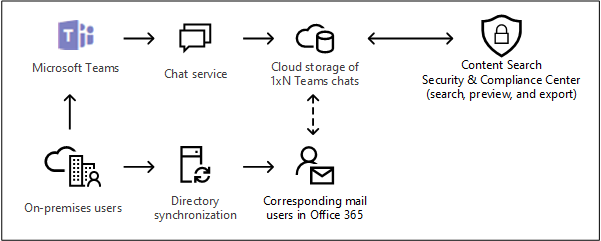
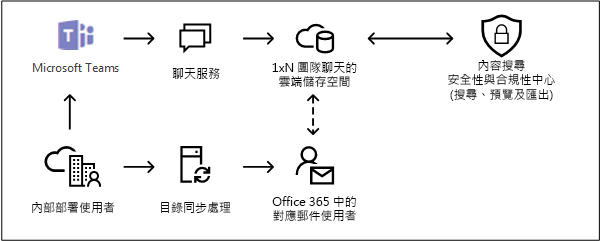
commit translated contents

diff --git a/microsoft-365/solutions/energy-secure-collaboration.md b/microsoft-365/solutions/energy-secure-collaboration.md
@@ -1,0 +1,222 @@
+---
+title: 能源產業的重要合規性與安全性考量
+ms.author: bcarter
+author: brendacarter
+manager: laurawi
+audience: ITPro
+ms.topic: article
+ms.collection:
+- Ent_O365
+- Strat_O365_Enterprise
+- M365-security-compliance
+ms.service: O365-seccomp
+localization_priority: Priority
+description: 了解 Microsoft 365 如何協助將能源組織移轉至現代共同作業平台，同時協助確保資料和系統安全性及遵循各種法規
+ms.openlocfilehash: d1585fdb69736a82699cdff8ef7a641ccff45194
+ms.sourcegitcommit: c876d58b34454f211b50ae5d06f193c1a1e5c4ff
+ms.translationtype: HT
+ms.contentlocale: zh-TW
+ms.lasthandoff: 04/11/2020
+ms.locfileid: "43231032"
+---
+# <a name="key-compliance-and-security-considerations-for-the-energy-industry"></a>能源產業的重要合規性與安全性考量
+:::image type="content" source="../media/solution-arch-center/MSC17_global_016.png" alt-text="使用雲端的各種產業全球檢視圖例比喻":::
+## <a name="introduction"></a>簡介
+能源產業提供社會大眾每天依賴的燃料和關鍵基礎結構。 為了確保與大量能源系統相關基礎結構的可靠性，監管機關施加了嚴格的能源產業組織標準。 這些法規標準不僅與能源產生和傳輸相關，也與對能源公司日常工作至關重要的資料和通訊相關。 
+
+能源產業中的組織可以在其一般營運中使用及交換許多類型的資訊，包括客戶資料、資本工程設計文件、資源位置地圖、專案管理成品、效能計量、現場服務報告、環境資料和效能計量。 當這些組織尋求將其營運和共同作業系統轉換成新式數位平台時，他們會將 Microsoft 視為信任的雲端服務提供者 (CSP)，將 Microsoft 365 視為其最佳共同作業平台。 由於 Microsoft 365 本質上是建置在 Microsoft Azure 平台上，因此組織應該在移動到雲端而考量其合規性與安全性控制時，同時檢查兩個平台。
+
+在北美洲，北美洲電氣可靠性公司 (North America Electric Reliability Corporation (NERC)) 會強制執行 NERC [重要基礎結構保護 (CIP) 標準](https://www.nerc.com/pa/Stand/Pages/CIPStandards.aspx) (英文) 中所述的可靠性標準。 NERC 受美國聯邦能源管理委員會 (FERC) 和加拿大政府機構的監督。 所有大量電力系統擁有者、操作員和使用者必須向 NERC 註冊，並且遵守 NERC CIP 標準。 雲端服務提供者和第三方廠商 (例如 Microsoft) 不受 NERC CIP 標準約束；不過 CIP 標準包含註冊實體在大量電力系統 (BES) 運行中使用廠商時應考慮的目標。 運行大量電力系統的 Microsoft 客戶對確保自己遵守 NERC CIP 標準負有全部責任。 
+
+如需 Microsoft 雲端服務與 NERC 的相關資訊，請參閱下列資源：
+- [NERC CIP 標準和雲端運算](https://aka.ms/AzureNERC)
+- [NERC 稽核的雲端實作指南](https://aka.ms/AzureNERCGuide)
+
+針對能源組織考量所建議的法規標準包括 FedRAMP (美國聯邦風險與授權管理計劃)，這個計劃是以 NIST SP 800-53 修訂版 4 標準 (國家標準暨技術研究院) 為基礎並擴充。 
+- Microsoft Office 365 和 Office 365 美國政府都在「中度影響層級」獲得授與 FedRAMP ATO (授權可執行)。 
+- Azure 和 Azure Government 都獲得授與 FedRAMP High P-ATO (佈建授權可執行)，這是最高的 FedRAMP 授權層級。 
+
+如需 Microsoft 雲端服務與 FedRAMP 的相關資訊，請參閱下列資源：
+- [Microsoft FedRAMP 概觀](https://docs.microsoft.com/microsoft-365/compliance/offering-fedramp?view=o365-worldwide) (部分機器翻譯)
+- [Office 365 FedRAMP 報告](https://servicetrust.microsoft.com/ViewPage/MSComplianceGuideV3?docTab=7027ead0-3d6b-11e9-b9e1-290b1eb4cdeb_FedRAMP_Reports) (部分機器翻譯)
+
+
+這些成就對能源產業來說非常重要，因為 FedRAMP 中等控制集與 NERC CIP 需求之間的比較顯示，FedRAMP 中等控制涵蓋所有 NERC CIP 需求。 如需詳細資訊，Microsoft 已開發 [NERC 稽核的雲端實作指南](https://servicetrust.microsoft.com/ViewPage/TrustDocuments?command=Download&downloadType=Document&downloadId=68df41b2-873d-4e4b-a7c8-8a0d4fdefb88&docTab=6d000410-c9e9-11e7-9a91-892aae8839ad_Compliance_Guides)，其中包括目前 NERC CIP 標準集合和 FedRAMP 中等控制集之間的控制對應，如 NIST 800-53 修訂版 4 所述。
+
+隨著能源產業尋求將其共同作業平台現代化，需針對設定及部署共同作業工具和安全性控制而謹慎考慮，包括：
+- 常用共同作業案例的評估
+- 存取員工若要有生產力必要的資料
+- 法規遵循需求
+- 讓風險與資料、客戶和組織產生關聯
+
+Microsoft 365 是一種新式工作場所雲端環境，可以在整個企業之間提供安全且靈活的共同作業，結合控制和原則強制執行，以因應嚴格的法規遵循架構。 本文件透過下列主題，探討 Microsoft 365 平台如何協助能源產業移至新式共同作業平台，同時協助保持資料和系統安全且遵循法規要求：
+- 透過 Microsoft Teams 提供全面的共同作業平台
+- 在能源產業中提供安全且合規的共同作業
+- 識別敏感性資料並防止資料外洩
+- 藉由有效管理記錄來管理資料
+- 符合 FERC 和 FTC 對於能源市場的法規要求
+- 防範資料外流和測試人員風險
+
+Microsoft 的合作夥伴 Protiviti 參與撰寫本文，並協助提供實質意見反應。
+
+## <a name="provide-a-comprehensive-collaboration-platform-with-microsoft-teams"></a>透過 Microsoft Teams 提供全面的共同作業平台
+共同作業通常需要多種形式的溝通、儲存及存取文件的功能，以及整合其他應用程式的能力。 無論是全球企業或本地公司，能源部門中的員工通常都需要與其他部門或跨小組的成員共同作業及溝通。 通常也需要與外部合作夥伴、廠商或客戶進行通訊。 因此，我們通常不建議使用會建立隔閡阻礙或難以共用資訊的系統。 也就是說，我們仍要確保員工能安全地根據原則共用資訊。 
+
+為員工提供新式雲端式共同作業平台可讓員工選擇並輕鬆整合可發揮最高生產力的工具，並賦予他們尋找最佳工作和共同作業方式的能力。 將 Microsoft Teams 與保護組織的安全性控制和管理原則搭配使用，可協助您的員工輕鬆地在雲端共同作業。
+
+Microsoft Teams 為貴組織提供共同作業中樞，快速地讓使用者集合在一起以便有效率地配合，在一般計劃或專案與其他小組成員共同作業。 可讓小組成員進行交談、共同作業及共同撰寫文件。 可讓使用者儲存檔案，並且與小組成員或小組外的使用者共用檔案。 也能讓他們使用整合的企業語音和視訊來舉行即時會議。 您也可以透過輕鬆存取 Microsoft 應用程式 (例如 Planner、Dynamics 365、Power BI 及其他第三方企業營運應用程式) 自訂 Microsoft Teams。 Teams 簡化了 Office 365 服務和第三方應用程式的存取，以集中組織的共同作業與通訊需求。
+
+Office 365 群組支援所有 Microsoft 小組。 Office 365 群組是眾多 Office 365 服務的成員資格提供者，包括 Teams。 因此，Office 365 群組會用來安全地控制哪些使用者視為成員，哪些是群組的擁有者，藉以限制小組的成員和擁有者。 這樣可以讓我們輕鬆控制哪些使用者能夠存取 Teams 內的不同功能。 因此，小組成員與擁有者可能只能存取允許他們使用的功能。
+
+Microsoft Teams 可以為能源組織帶來好處的常見案例，是在現場服務方案 (例如植被管理) 與承包商或外部公司共同作業。 承包商通常是配合管理植被或清除電源系統安裝周遭的樹木，且通常需要接收工作指示、與調度員和其他現場服務人員通訊、拍攝外部環境的照片及共用、工作完成時簽退，並且與總部共用資料。 傳統上，這些方案是使用電話、文字、紙本工作單或自訂應用程式執行。 這可能會帶來多種挑戰，包括：
+- 程序是手動或類比，讓計量難以追蹤
+- 通訊不會全部集中在同一個位置
+- 資料有隔閡，且不一定與所有需要的員工共用
+- 工作的執行方式可能不一致或沒有效率
+- 自訂應用程式並未與共同作業工具整合，使其難以擷取及共用資料，或測量效能
+
+Microsoft Teams 可以提供簡單易用的共同作業空間，讓小組成員與外部現場服務承包商之間能夠安全地共用資訊和進行交談。 您可以使用 Teams 來舉行會議、撥打語音電話、集中儲存及共用工作單、收集現場資料、上傳相片、整合商務程序解決方案 (使用 Power Apps 和 Power Automate 建置)，以及整合企業營運應用程式。 這種類型的現場服務資料可能被視為低度影響；不過，您可以在這些案例中，集中通訊並存取員工與現場服務人員之間的資料，以提高效率。
+
+另一個 Microsoft Teams 可以為能源產業帶來好處的範例是，現場服務人員在服務中斷期間還原服務時。 現場人員通常需要快速存取變電站、發電站的示意圖資料，或現場資產的藍圖。 這項資料被視為高度影響，而且必須根據 NERC CIP 法規加以保護。 服務中斷期間的現場服務工作需要現場人員與辦公室員工之間的通訊，有時候需要與客戶通訊。 在 Microsoft Teams 中集中通訊和資料共用，讓現場人員能使用簡單的方法存取關鍵資料，並將資訊或狀態傳回總部。 例如，Microsoft Teams 可讓現場人員在前往服務中斷地點的路程上，加入電話會議。 現場人員也可以拍攝其環境的相片或影片，並與總部人員共用，這一點在現場設備與示意圖不相符時尤其重要。 然後，從現場收集的資料和狀態可以透過資料視覺效果工具 (例如 Power BI)，呈現給辦公室員工和領導階層。 最終，Microsoft Teams 可以讓現場人員在這些重要情況下更有效率以及生產力。
+
+### <a name="teams-improve-collaboration-and-reduce-compliance-risk"></a>Teams：改善共同作業並降低合規性風險
+
+Microsoft 365 透過將 Office 365 群組作為基礎成員資格提供者，為 Microsoft Teams 提供一般原則功能。 這些原則可協助改善共同作業並協助達到合規性需求。
+
+**Office 365 群組命名原則**能協助確保 Office 365 群組及 Microsoft Teams 按照公司原則來命名。 如果未正確命名，小組名稱可能會帶來挑戰，舉例來說，如果小組未正確命名，員工可能不知道要在哪些小組工作或共用資訊。 群組命名原則可以強制執行良好的檢疫，也可以防止使用特定字詞，例如保留字或不適當的術語。 
+
+**Office 365 群組到期原則**可協助確保 Office 365 群組和 Microsoft Teams 的保留期間不超過組織所需的時間。 此功能可協助防止下列兩個重要資訊管理問題：
+- 不需要或不使用的 Microsoft Teams 數量劇增。
+- 過度保留組織不再需要的資料
+
+系統管理員可指定 Office 365 群組的到期時間 (以天數為單位)，例如 90、180 或 365 天。 如果 Office 365 群組支援的服務在到期期間處於非作用中狀態，系統就會通知群組擁有者，如果不採取任何動作，將會刪除 Office 365 群組及其所有相關服務，包括 Microsoft Teams。 
+
+過度保留 Microsoft Teams 中的資料可能會讓組織面臨訴訟風險，使用到期原則是保護組織的建議方法。 結合內建的保留標籤和原則，Microsoft 365 可協助確保組織只保留符合合規性義務所需的資料。
+
+### <a name="teams-integrate-custom-requirements-with-ease"></a>Teams：輕鬆整合自訂需求
+
+Microsoft Teams 預設會啟用自助建立 Teams。 不過，許多監管組織想要控制並了解其員工目前正在使用哪些共同作業空間、哪些空間包含敏感性資料，以及誰是整個組織空間的擁有者。 為了協助這些控制，Microsoft 365 允許組織停用自助 Teams 建立，並使用內建的 Microsoft 365 商務程序自動化工具 (例如 Power Apps 和 Power Automate)，讓組織建置簡單的程序來要求新的小組。 完成簡單易用的表單，主管可以自動要求核准。 一旦核准，小組可以自動佈建，且會將新小組的連結傳送給要求者。 藉由建置這樣的程序，組織也可以整合自訂需求，以便協助其他商務程序。
+
+## <a name="provide-secure-and-compliant-collaboration-in-the-energy-industry"></a>在能源產業中提供安全且合規的共同作業
+如前文所述，Microsoft Office 365 和 Office 365 美國政府都獲得「中度影響」層級 FedRAMP ATO，而 Azure 和 Azure Government 則獲得 FedRAMP High P-ATO，這是最高的 FedRAMP 授權層級。 此外，FedRAMP 中等控制集涵蓋所有 NERC CIP 需求，因此可讓能源產業組織 (「註冊實體」) 運用現有的 FedRAMP 授權，作為解決 NERC 審核需求的可調整和有效方法。 不過，請注意，FedRAMP 不是時間點認證，而是評估和授權方案，其中包含[持續監視](https://www.fedramp.gov/assets/resources/documents/CSP_Continuous_Monitoring_Strategy_Guide.pdf)的佈建。 雖然這項佈建主要適用於 CSP，營運大量電力系統的 Microsoft 客戶要負責確保自身符合 NERC CIP 標準，而且通常建議持續監視組織的合規性狀況，以協助確保持續遵守法規。
+
+Microsoft 提供了兩種關鍵工具，協助監視一段時間內的法規合規性：
+
+- **Microsoft 合規性分數**可協助組織了解其目前的合規性狀況，以及針對改善該狀況可採取的動作。 「合規性分數」會計算風險型分數，評量完成動作的進度，協助降低資料保護和法規標準的風險。 「合規性分數」依據 Microsoft 365 資料保護基準提供初始分數。 此基準是一組包含常見業界法規和標準的控制。 這個分數是很好的起點，而如果組織新增與其產業更加相關的評估，「合規性分數」就會變得更加強大。 「合規性分數」支援與 NERC CIP 合規性義務相關的許多法規標準，其中包括 [FedRAMP 中等控制集](https://www.fedramp.gov/documents/) (英文)、[NIST 800-53 修訂版 4](https://go.microsoft.com/fwlink/?linkid=2109075) (英文)，以及 [AICPA SOC 2](https://go.microsoft.com/fwlink/?linkid=2115184) (英文)。 如果需要，能源產業組織也可以建立或匯入自訂控制集。
+
+- **Microsoft 合規性管理員**是一種風險評估工具，可讓組織追蹤、指派及驗證與 Microsoft 雲端服務相關的法規合規性活動。 「合規性管理員」可讓組織將 Microsoft 提供給稽核者和法規機構有關其雲端服務的詳細合規性資訊，與針對適用標準和法規的組織合規性自我評估，結合在一起。 「合規性管理員」是 Microsoft 365、Office 365 或 Azure Active Directory 訂閱的一部分，可協助組織管理 Microsoft [共用責任模型](https://gallery.technet.microsoft.com/Shared-Responsibilities-81d0ff91)中的法規合規性。 其提供集中式儀表板以檢視標準、法規、控制實作詳細資料，以及 Microsoft 服務評估測試結果。 
+
+合規性分數和合規性管理員已整合。 「合規性管理員」中的所有資料，也會顯示在「合規性分數」中。 「合規性分數」可讓您輕鬆監視組織的整體合規性狀況，並採取動作來改善該狀況。 「合規性管理員」提供健全的功能以執行組織針對多個法規合規性標準的合規性自我評估。
+
+內建至「合規性分數」和「合規性管理員」的工作流程型功能，可讓能源組織轉換和數位化其法規合規性程序。 傳統上，能源產業合規性小組面臨的挑戰包括：
+- 補救動作的進度報告或追蹤不一致
+- 程序低效或無效
+- 資源不足或缺少擁有權
+- 缺乏即時資訊和人為錯誤
+
+透過運用「合規性分數」和「合規性管理員」，讓法規合規性程序自動化，組織可以降低法律和合規性功能的系統管理負擔。 這項工具可提供更多補救動作的最新資訊、更一致的報告，以及動作 (連結至動作實作) 的已記錄擁有權，藉以協助解決這些挑戰。 組織可以自動追蹤一段時間內的補救動作，並查看整體效能提升。 這樣可讓員工更專注於取得深入解析和開發戰略，以更有效率地瀏覽風險。 
+
+「合規性分數」的高低並不能用來代表組織合規性絕對符合某個特定的標準或法規。 這代表您採取的控制措施可降低個人資料和個人隱私權暴露在風險中的程度。 您不應將「合規性分數」和「合規性管理員」中的建議視為合規性的保證。 「合規性管理員」中提供的客戶動作僅為建議，每個組織可於實作之前自行評估這些建議在其個別的法規環境中的有效性。 您不應將合規性管理員中找到的建議視為合規性的保證。
+
+許多網路安全性相關控制都包含在 [FedRAMP 中等控制集](https://www.fedramp.gov/documents/) (英文) 和 [NERC CIP 標準](https://www.nerc.com/pa/Stand/Pages/CIPStandards.aspx) (英文) 中。 不過，與 Microsoft 365 平台相關的關鍵控制包括安全性管理控制 (CIP-003-6)、帳戶與存取權管理/存取撤銷 (CIP-004-6)、電子安全性周邊 (CIP-005-5)、安全性事件監視和事件回應 (CIP-008-5)。 下列基本 Microsoft 365 功能可協助解決這些主題中所包含的風險和需求。
+
+### <a name="secure-user-identities-and-control-access"></a>保護使用者身分識別及控制存取權
+保護對文件和應用程式的存取權始於嚴格加強使用者身分識別。 作為基礎，必須為企業提供安全的平台來儲存及管理身分識別，並且提供信任的驗證方式。 也需要動態控制這些應用程式的存取權。 員工工作時，他們可能會在應用程式之間移動，或在多個位置和裝置之間移動。 因此，在此過程的每個步驟中，都必須驗證資料存取權。 此外，驗證程序必須支援強大的通訊協定和多重要素驗證 (一次性 SMS 密碼、驗證器應用程式、認證等等)，讓我們得以確保身分識別不遭到入侵。 最後，實施風險式存取原則對保護資料和應用程式不受測試人員威脅、避免不慎資料洩漏和資料外流是關鍵的建議。
+
+Microsoft 365 提供 **Azure Active Directory (Azure AD)** 的安全身分識別平台，在其中集中儲存並安全管理身分識別。 Azure Active Directory 和許多相關的 Microsoft 365 安全性服務構成了為員工提供安全工作所需的存取權基礎，同時還保護組織免受威脅。
+
+**Azure Multi-Factor Authentication (MFA)** 內建在平台中，並提供額外的保護層，以在存取敏感性資料和應用程式時，協助確認使用者是他們所表明的身分。 Azure MFA 至少需要兩種形式的驗證，例如密碼和已知的行動裝置。 其支援數個次要因素驗證選項，包括：Microsoft Authenticator 應用程式、透過 SMS 傳遞的一次性密碼，接聽使用者必須輸入 PIN 的電話、智慧卡或憑證型驗證。 如果密碼遭入侵，潛在的駭客仍需要使用者的手機，才能存取組織資料。 此外，Microsoft 365 會使用新式驗證作為金鑰通訊協定，讓 Web 瀏覽器提供的強大驗證體驗，也能在共同作業工具中使用，包括 Microsoft Outlook 和其他 Microsoft Office 應用程式。
+
+**Azure AD 條件式存取**提供強大的解決方案，以自動化存取控制決策，並強制執行原則以保護公司資產。 常見的範例是，員工想要存取含有敏感性客戶資料的應用程式，系統自動要求他們執行多重要素驗證，才能特別存取該應用程式。 Azure 條件式存取整合使用者存取要求的相關信號，例如使用者的屬性、裝置、位置和網路，以及使用者嘗試存取的應用程式或存放庫。 其可根據已設定的原則，對每次嘗試存取應用程式的動作進行動態評估。 如果使用者或裝置風險提高，或不符合其他條件，Azure AD 可自動強制實施原則，例如動態要求 MFA、限制或甚至封鎖存取權。 這可協助確保敏感性資產在不斷變更的環境中受到保護。 
+
+**Office 365 進階威脅防護 (ATP)** 提供整合的服務，可保護組織免受透過電子郵件傳遞的惡意連結和惡意程式碼侵害。 當今影響使用者最常見的攻擊媒介之一是電子郵件網路釣魚攻擊。 這些攻擊可以謹慎地以特定高調員工為目標，並且精心製作以令人信服。 這些攻擊通常會包含召喚行動，要求使用者按一下惡意連結或開啟含有惡意程式碼的附件。 一旦受到感染，攻擊者就可以竊取使用者的認證，並在組織中橫行。 攻擊者也可以將電子郵件和資料外流，尋找敏感性資訊。 Office 365 ATP 會在按一下時評估連結，尋找潛在的惡意網站並加以封鎖。 電子郵件附件會在受保護的沙箱中開啟，再傳送到使用者的信箱。 
+
+**Microsoft Cloud App Security (MCAS)** 提供功能讓組織以精細的層級進一步強制執行原則，並根據使用機器學習自動定義的個別使用者設定檔來偵測行為異常。 MCAS 可建立於 Azure 條件式存取原則，以透過評估與使用者行為和所存取文件屬性相關的額外信號，來進一步保護敏感性資產。 一段時間後，MCAS 會了解每位員工在所存取資料和所使用應用程式中可視為典型的行為。 根據已知的行為模式，如果員工的行為超出該行為設定檔，原則便可自動強制執行安全性控制。 例如，如果某位員工通常從星期一至星期五上午 9 點到下午 5 點存取會計應用程式，但相同使用者突然開始在星期天晚上頻繁存取該應用程式，MCAS 可以動態強制執行原則，以要求使用者重新驗證。 這可協助確保認證不遭到入侵。 此外，MCAS 可協助探索及識別組織中的「影子 IT」，以協助資訊安全小組確保員工處理敏感性資料時使用批准的工具。 最後，MCAS 可以保護雲端中任何位置的敏感性資料，甚至是 Microsoft 365 平台以外的資料。 其可讓組織批准 (或取消批准) 特定外部雲端應用程式，控制存取權以及在使用者於這些應用程式中工作時進行監視。
+
+**Azure Active Directory** 和相關的 Microsoft 365 安全性服務提供將新式雲端共同作業平台推廣到能源產業組織的基礎，以便加強保護資料和應用程式的存取安全，並符合法規合規性義務。 總結來說，這些工具提供下列關鍵功能：
+- 集中儲存並安全管理使用者身分識別
+- 使用強大的驗證通訊協定 (包括多重要素驗證)，以驗證存取要求的使用者，並在任何應用程式中提供一致且穩健的驗證體驗
+- 動態驗證所有存取要求的原則，將多個信號納入原則決策程序中，包括身分識別、使用者/群組成員資格、應用程式、裝置、網路、位置，以及即時風險分數
+- 根據使用者行為和檔案內容驗證細微原則，並在需要時動態強制執行其他安全性措施
+- 識別組織中的「影子 IT」，並允許資訊安全小組批准或封鎖雲端應用程式
+- 監視及控制 Microsoft 和非 Microsoft 雲端應用程式的存取權
+- 主動防範電子郵件網路釣魚和勒索軟體攻擊
+
+## <a name="identify-sensitive-data-and-prevent-data-loss"></a>識別敏感性資料並防止資料外洩 
+FedRAMP 中等控制集和 NERC CIP 標準也包含可作為關鍵控制需求的資訊保護 (CIP-011-2)。 這些需求特別解決了識別與 BES (大量電力系統) 網路系統資訊相關資訊、保護該資訊的處理 (包括儲存、傳輸和使用) 的需求。 BES 網路系統資訊的特定範例可能包含營運大量電力系統 (BES 網路系統、實體存取控制系統和電力存取控制或監視系統) 基礎的系統安全性程序或安全性資訊，這些資訊並未公開，可能會被用來允許未獲授權的存取或未獲授權的散發。 不過，能源組織每日營運中也有相當重要的識別及保護客戶資訊需求存在。
+
+Microsoft 365 讓組織內的敏感性資料都能透過強大的功能組合來識別和保護，包括：
+
+- **Microsoft 資訊保護 (MIP)**，以使用者為基礎的分類和敏感性資料的自動化分類
+
+- **Office 365 資料外洩防護 (DLP)**，以使用敏感性資料類型 (即規則運算式) 和關鍵字和原則強制執行來自動識別敏感性資料
+
+**Microsoft 資訊保護 (MIP)** 可讓員工使用敏感度標籤，將文件和電子郵件分類。 使用者可以在 Microsoft Office 應用程式的文件和 Microsoft Outlook 中的電子郵件手動套用敏感度標籤。 敏感度標籤可自動套用文件標記、加密保護，以及強制執行版權管理。 還可以透過設定使用關鍵字和敏感性資料類型 (信用卡號碼、社會安全號碼、身分證字號等等) 的原則來自動套用，以自動尋找及分類敏感性資料。 
+
+此外，Microsoft 也提供可訓練的分類器，其使用機器學習模型根據內容識別敏感性資料，而不只是透過模式比對或內容中的元素。 分類器透過查看大量要分類的內容範例來學習如何識別內容類型。 訓練分類器的第一步是為分類器提供特定類別內容的範例。 處理這些範例之後，透過提供模型相符和不相符範例的組合來測試模型。 接著分類器會預測指定範例是否屬於某類別。 然後，人員會確認結果，並排序陽性、陰性、誤判和漏報，以提高分類器預測的準確性。 發佈訓練的分類器後，分類器會處理 SharePoint Online、Exchange Online 和商務用 OneDrive 中的內容，並自動將內容分類。
+
+將敏感度標籤套用到文件和電子郵件，就會在物件內內嵌中繼資料，以識別所選的敏感度，這樣就能讓敏感度與資料一起移動。 因此，即使已加上標籤的文件儲存在使用者的桌上型電腦或內部部署系統中，文件仍受到保護。 此功能接著可讓其他 Microsoft 365 解決方案 (例如 Microsoft Cloud App Security 或網路 edge 裝置) 識別敏感性資料，並自動強制執行安全性控制。 敏感度標籤的另一個好處是可教育員工組織中哪些資料被視為敏感性資料，以及如何在收到該資料時處理資料。
+
+**Office 365 資料外洩防護 (DLP)** 會透過掃描敏感性資料類型，然後對這些物件強制執行原則，以自動識別包含敏感性資料的文件、電子郵件和交談。 原則是在 SharePoint Online 和商務用 OneDrive 中的文件強制執行。 原則也會在使用者傳送電子郵件時，以及在 Microsoft Teams 聊天和頻道交談中強制執行。 可以將原則設定為尋找關鍵字、敏感性資料類型、保留標籤，以及資料是在組織內部或外部共用。 提供控制項以協助組織微調 DLP 原則，以進一步避免誤報。 發現敏感性資料時，可對使用 Microsoft 365 應用程式的使用者顯示可自訂原則提示，通知他們其內容包含敏感性資料，和/或建議採取更正動作。 原則也可以防止使用者存取文件、共用文件，或傳送包含特定敏感性資料類型的電子郵件。 Microsoft 365 支援超過 100 種內建敏感性資料類型，組織可以設定自訂敏感性資料類型以滿足其原則。
+
+將 MIP 和 DLP 原則推廣到組織需要周密的規劃和使用者教育計劃，讓員工了解組織的資料分類架構，以及哪些類型的資料被視為敏感性資料。 為員工提供工具和教育計劃可協助他們識別敏感性資料，並協助他們了解如何處理這些資料，讓他們成為解決資訊安全風險問題的解決方案的一環。
+
+## <a name="govern-data-by-effectively-managing-records"></a>藉由有效管理記錄來管理資料
+法規要求許多組織依照受管理的公司保留排程表來管理關鍵組織文件的保留。 如果資料未妥善保留 (太早刪除)，組織會面臨法規合規性風險，如果資料過度保留 (保留的時間過長)，組織則會面臨法規風險。 有效的記錄管理策略可協助確保按照預先決定的保留期間 (設計目的是將組織風險降至最低) 來保留組織文件。 保留期間是在集中管理的組織記錄保留排程中規定的，其根據每種文件類型的性質、保留特定資料類型的法規合規性需求，以及組織定義的原則。 
+
+若要在整個組織文件中準確指派記錄保留期間，您可能需要精細的程序，為個別文件指派獨特的保留期間。 能源產業組織內大量的文件，加上在許多情況下，保留期間可以由組織事件 (例如合約到期或員工離開組織) 觸發，讓套用記錄保留原則對於許多組織而言是大規模的挑戰。
+
+Microsoft 365 提供功能來定義保留標籤和原則，以輕易地實作記錄管理需求。 記錄管理員定義保留標籤，該標籤代表傳統保留排程中的「記錄類型」。 保留標籤包含的設定會定義：
+- 記錄保留的時間長度
+- 並行需求或保留期間到期時，會發生什麼情況 (刪除文件、開始處置檢閱或不採取任何動作)
+- 觸發保留期間開始的項目 (建立日期、上次修改日期、標籤日期或事件)，以及
+- 如果文件或電子郵件是記錄 (表示這些記錄無法編輯或刪除)
+
+保留標籤便會發佈到 SharePoint 或 OneDrive 網站、Exchange 信箱和 Office 365 群組。 然後使用者可以手動將保留標籤套用到文件和電子郵件，或者記錄管理員可以使用規則來自動套用保留標籤。 自動套用規則可以根據關鍵字或者文件或電子郵件中找到的敏感性資料 (例如信用卡號碼、社會安全號碼或其他個人識別資訊 (PII))，或根據 SharePoint 中繼資料。
+
+FedRAMP 中等控制集和 NERC CIP 標準也包含可作為關鍵控制需求的資產重複使用和處置 (CIP-011-2)。 同樣地，這些需求特別解決 BES (大量電力系統) 網路系統資訊。 不過，其他管轄權法規要求能源產業組織有效地管理及處理許多類型資訊的記錄。 這包括財務報表、資本專案資訊、預算、客戶資料等。在所有情況下，需要能源組織維護可靠的記錄管理方案，以及與公司記錄可防護處置相關的證據。
+
+在每個保留標籤上，Office 365 可讓記錄管理員判斷是否需要處置檢閱。 當這些記錄類型進行處置時，在其保留期間到期之後，必須由指定的處置檢閱者執行檢閱，才能刪除內容。 處置檢閱核准之後，就會繼續進行內容刪除，但是刪除的證據、執行刪除的使用者和發生日期/時間，仍會保留多年 (作為毀損憑證)。 如果組織需要更久或永久保留毀損憑證，Azure Sentinel 可用於長期雲端式記錄和稽核資料儲存。 Azure Sentinel 可讓組織完全控制活動資料、記錄資料及保留/處置資料的長期儲存和保留。
+
+## <a name="comply-with-ferc-and-ftc-regulations-for-energy-markets"></a>符合 FERC 和 FTC 對於能源市場的法規要求
+美國聯邦能源管理委員會 (FERC) 會監督[與能源市場和電力能源與天然氣市場交易相關的法規](https://www.ferc.gov/CalendarFiles/20161117125529-WhitePaperCompliance.pdf) (英文)。 美國聯邦貿易委員會 (FTC) 會監督[石油市場中的法規](https://www.ftc.gov/sites/default/files/documents/rules/prohibition-energy-market-manipulation-rule/091113mmrguide.pdf) (英文)。 在這兩種情況下，這些監管機構會設定規定和指導方針，以禁止能源市場操縱。 例如，FERC 建議能源組織投資技術資源，以監視交易、交易員通訊及內部控制合規性。 他們會進一步建議能源組織定期評估組織合規性方案的持續效能。
+
+傳統上，通訊監視解決方案成本高昂，而且設定及管理相當複雜。 此外，組織在監視員工可用的為數眾多、各有不同的通訊通道時，會遇到挑戰。 Microsoft 365 提供數個內建健全功能，可讓您監視員工通訊、監管員工活動，並協助遵循 FERC 對於能源市場的法規。
+
+### <a name="implement-supervisory-control"></a>實作監管控制
+Microsoft 365 可讓組織設定擷取員工通訊 (根據設定的條件) 的監督原則，並允許由指定的主管檢閱這些通訊。 監督原則可以擷取內部/外部電子郵件和附件、Microsoft Teams 交談和通道通訊、商務用 Skype Online 交談通訊和附件，以及透過第三方服務 (例如 Facebook 或 Dropbox) 的通訊。 
+
+可以在組織內擷取並檢閱的通訊綜合性質，以及可以設定原則的廣泛條件，讓 Microsoft 365 監督原則能協助組織遵守 FERC 能源市場法規。 可以設定監督原則來檢閱個人或群組的通訊。 此外，主管可以設定為個人或群組。 可以將綜合條件設為根據輸入或傳出郵件、網域、保留標籤、關鍵字或片語、關鍵字字典、敏感性資料類型、附件、郵件大小或附件大小來擷取通訊。 檢閱者能使用儀表板檢閱已標記的通訊、對可能違反原則的通訊採取動作，以及將已標記的項目標示為已解決。 檢閱者也可以檢閱先前的檢閱結果和已解決的項目。 
+
+Microsoft 365 提供報告，可以根據原則和檢閱者稽核監督原則檢閱活動。 可用的報告可用於驗證監督原則是否如組織書面監督原則所定義的方式運作。 報告也可以用來識別需要檢閱的通訊和不符合公司原則的通訊。 最後，與設定監督原則及檢閱通訊相關的所有活動都會在 Office 365 整合稽核記錄中稽核。 
+
+Microsoft 365 監督原則可讓組織監視通訊是否符合公司原則，例如公司通訊中的人力資源騷擾侵犯和攻擊性語言。 通訊合規性也能讓組織在進行敏感性組織變更 (例如合併和收購或領導層變更) 時監視通訊，以降低風險。 
+
+### <a name="communication-compliance"></a>通訊合規性
+因為員工有許多通訊通道可用，所以組織更加需要有效的解決方案，以監視及監督管制產業 (例如能源交易市場) 中的通訊。 最近啟動的「通訊合規性」解決方案 (內建至 Microsoft 365) 可協助組織克服常見挑戰，例如通訊通道和訊息量增加，以及潛在的原則違規罰款風險。
+
+「通信合規性」可監視多個通訊通道，並使用機器學習模型來識別潛在的原則違規，包括 Office 365 電子郵件、Microsoft Teams、商務用 Skype Online、Facebook、Twitter 及 Bloomberg 立即訊息。 「通訊合規性」可協助合規性小組有效且有效率地檢閱郵件的潛在違規：
+- 公司原則，例如可接受的使用、道德標準，和公司特定原則 
+- 機密或機密商業披露，例如未經授權的機密專案通訊，如近期收購、合併、收益披露、改組或領導團隊變更
+- 法規合規性需求，例如組織參與的業務或交易類型需遵循 FERC 對於能源市場的法規，其中的相關員工通訊。
+
+通訊合規性提供內建威脅、騷擾和粗話交叉分類器，以協助減少檢閱通訊時的誤報。 這樣可節省檢閱者調查及補救程序的時間。 其可協助檢閱者在冗長往來書信中，將焦點放在已由原則警示醒目提示的特定訊息。 這樣可協助合規性小組更快速地識別並補救風險。 合規性小組也可以透過通訊合規性來輕鬆設定和微調原則、調整解決方案以符合組織的特定需求以及降低誤報。 「通訊合規性」也可以追蹤使用者一段時間內的行為，醒目提示危險行為或原則違規的潛在模式。 最後，其提供彈性的內建補救工作流程，讓檢閱者可以依照定義的公司程序，迅速採取動作，並呈報給法律或人力資源小組。
+
+## <a name="protect-against-data-exfiltration-and-insider-risk"></a>防範資料外流和測試人員風險
+企業的常見威脅是資料外流或從組織擷取資料的行為。 由於員工或現場服務人員每天所存取資訊的敏感性本質，這對於能源組織是重大的考量。 這包括 BES (大量電力系統) 網路系統資訊，以及商務相關資訊和客戶資料。 隨著可用的通訊方法和移動資料的工具數量激增，通常需要先進的工具來緩解資料洩漏、原則違規和測試人員風險。 
+
+### <a name="insider-risk-management"></a>測試人員風險管理
+讓員工能夠隨時隨地存取線上共同作業工具為組織帶來風險。 員工可能會不慎或惡意地將資料洩漏給攻擊者或競爭者。 員工也可能外流資料以供個人使用，或將資料帶給未來雇主。 這些案例都會讓組織從安全性和合規性立場而言，暴露在嚴重風險中。 若要識別並迅速緩解這些風險，就需要智慧型工具進行資料收集和跨部門共同作業，例如法務部、人力資源部和資訊安全部。
+
+Microsoft 365 最近推出了「測試人員風險管理」主控台，使用整個 Microsoft 365 服務中的信號以及機器學習模型來監視使用者的行為，以尋找測試人員風險的跡象。 這項工具會將資料提供給調查人員，讓他們可以根據預先決定的工作流程，輕鬆識別有風險的行為模式並呈報案例。 
+
+例如，「測試人員風險管理」可以將來自使用者 Windows 10 Desktop 的信號 (例如，將檔案複製到 USB 硬碟，或透過電子郵件傳送個人電子郵件帳戶) 和線上服務 (例如 Office 365 電子郵件、SharePoint Online、Microsoft Teams、商務用 OneDrive 等等) 中的活動相關聯，以識別資料外流模式。 還可以將這些活動與離開組織的員工相關聯，這是與資料外流相關聯的常見行為模式。 可以監視一段時間內的多個活動和行為，常見模式出現時，便可發出警報，並協助調查人員專注於關鍵活動，以高信賴度驗證原則違規。 「測試人員風險管理」可以對調查人員的資料進行模糊處理，以協助符合資料隱私權法規，同時還可以進行一些關鍵活動，以協助有效執行調查。 就緒時，這可讓研究人員按照一般向上呈報工作流程安全地將關鍵活動資料封裝並傳送到人力資源和法務部門，以執行補救動作。
+
+「測試人員風險管理」大幅提升在 Microsoft 365 中監視及調查測試人員風險的能力，同時讓組織仍能符合資料隱私權法規，並在案例需要更高層級動作時遵循已建立的向上呈報途徑。
+
+## <a name="conclusion"></a>總結
+Microsoft 365 提供整合且全面的解決方案，可讓您在企業中利用 Microsoft Teams 來啟用易於使用的雲端式共同作業。 Microsoft Teams 也能夠與現場服務人員進行更好的通訊與共同作業，協助能源組織更加有效率。 讓整個企業以及與現場人員之間能夠有更好的共同作業，最終可協助能源組織為客戶提供更好的服務。
+
+能源產業組織必須遵守與儲存、保護、管理及保留其營運和客戶相關資訊有關的嚴格法規。 他們也必須遵守與如何監視和預防能源市場操縱相關的法規。 Microsoft 365 提供健全的安全性控制，可保護資料、身分識別、裝置和應用程式免於風險，並遵循嚴格的能源產業法規。 提供的內建工具可協助能源組織評估其合規性，以及在一段時間內採取動作和追蹤補救活動。 這些工具也提供易於使用的方法，可監視和監督通訊。 Microsoft 365 平台是建立在諸如 Microsoft Azure 和 Azure Active Directory 等基礎元件之上，協助保護整個平台，並協助組織符合 FedRAMP 中等和高等控制集的合規性需求。 如此便能促進能源組織符合 NERC CIP 標準。
+
+總的來說，Microsoft 365 可協助能源組織更佳地保護組織、擁有更健全的合規性方案，並且讓人員專注於取得更好的深入解析和實作策略，以便更能降低風險。

diff --git a/microsoft-365/security/office-365-security/configure-your-spam-filter-policies.md b/microsoft-365/security/office-365-security/configure-your-spam-filter-policies.md
@@ -15,13 +15,13 @@ search.appverid:
 ms.assetid: 316544cb-db1d-4c25-a5b9-c73bbcf53047
 ms.collection:
 - M365-security-compliance
-description: 基本的垃圾郵件篩選設定，包括識別為垃圾郵件所採取的選取郵件動作。
-ms.openlocfilehash: 39532db121bb4a9ca5b73ef129b2b0e74e46c69a
-ms.sourcegitcommit: 1d5db6e8411b45d0dd1c517339074c2840e33a63
+description: 系統管理員可以深入了解如何在 Exchange Online 和獨立 Exchange Online Protection (EOP) 中建立、修改及刪除反垃圾郵件原則。
+ms.openlocfilehash: 3f71a9c9a62e409d4a54c01523270fb10a723a96
+ms.sourcegitcommit: c876d58b34454f211b50ae5d06f193c1a1e5c4ff
 ms.translationtype: HT
 ms.contentlocale: zh-TW
-ms.lasthandoff: 04/10/2020
-ms.locfileid: "43216920"
+ms.lasthandoff: 04/11/2020
+ms.locfileid: "43231013"
 ---
 # <a name="configure-anti-spam-policies-in-office-365"></a>設定 Office 365 的反垃圾郵件原則
 
@@ -495,7 +495,7 @@ Get-HostedContentFilterRule -Identity "Contoso Executives" | Format-List
 
 ### <a name="use-powershell-to-modify-spam-filter-policies"></a>使用 PowerShell 修改垃圾郵件篩選原則
 
-除了下列項目外，當您如同本主題前面的[步驟 1：使用 PowerShell 建立垃圾郵件篩選原則](#step-1-use-powershell-to-create-a-spam-filter-policy) 一節所述在 PowerShell 中修改惡意程式碼篩選原則時，會出現相同的設定。
+除了下列項目外，當您如同本主題前面的[步驟 1：使用 PowerShell 建立垃圾郵件篩選原則](#step-1-use-powershell-to-create-a-spam-filter-policy) 一節所述在 PowerShell 中修改垃圾郵件篩選原則時，會出現相同的設定。
 
 - MakeDefault__ 可將指定的原則轉換成預設原則 (套用至每個人，一律**最低**優先順序，且無法刪除)，但只有當您在 PowerShell 中修改垃圾郵件篩選原則時才能使用。
 
